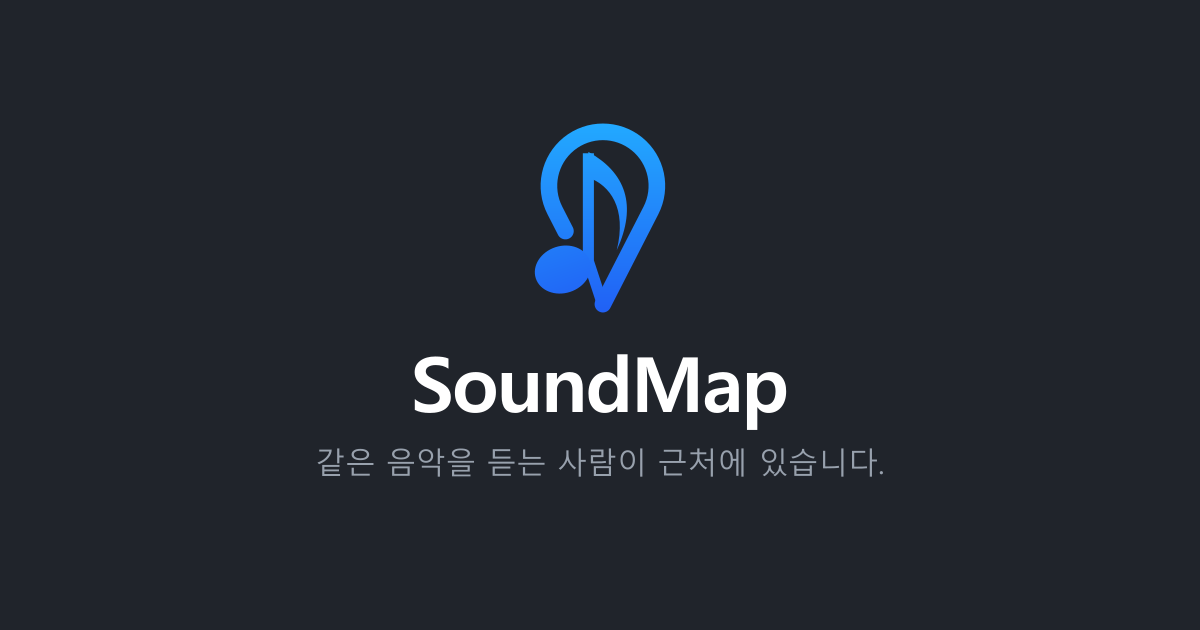
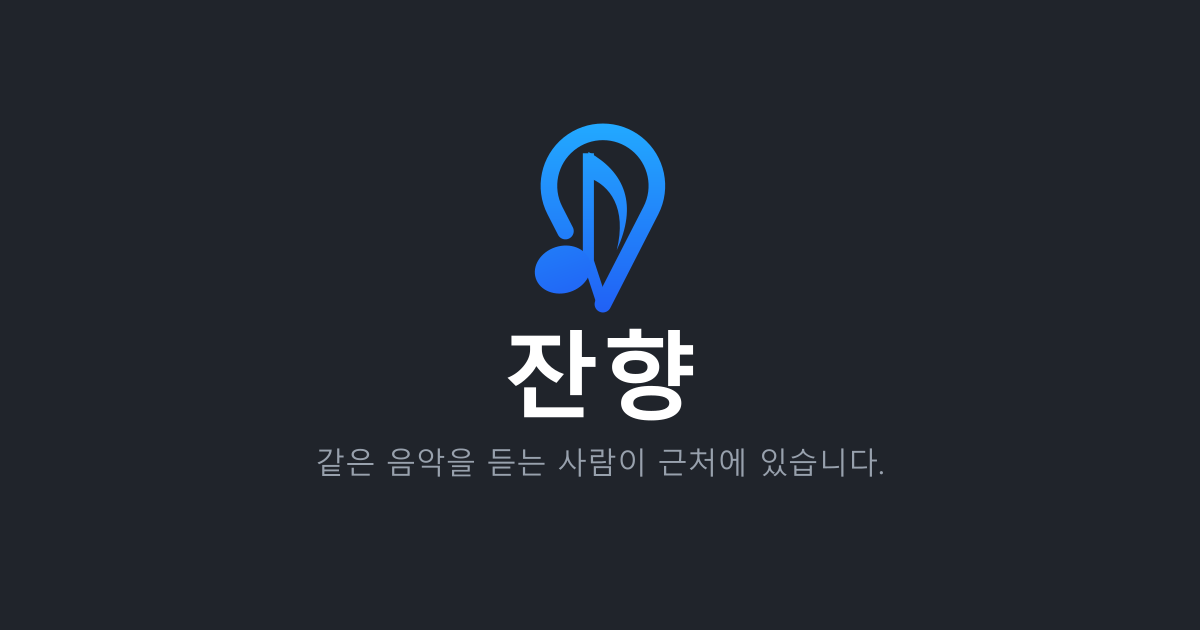
서비스 이름을 잔향으로 변경
동명의 SoundMap 앱이 이미 있어 사용자에게 보이는 이름만 바꿨다.
자바 패키지(com.soundmap), 토큰 키, 도메인, systemd 유닛 이름은 그대로 둔다.
표시와 무관한 데다, 도메인을 바꾸면 인증서를 다시 받아야 하고
기존 웹푸시 구독도 전부 무효가 되기 때문이다.

한글 워드마크는 글자폭이 고르므로 라틴 기준으로 잡아둔 음수 자간을 0 으로 되돌렸다.

Changed region(s): [[0.3392, 0.5127, 0.6783, 0.6937]]

diff --git a/frontend/index.html b/frontend/index.html
@@ -14,7 +14,7 @@
     <link rel="manifest" href="/manifest.webmanifest" />
     <meta name="apple-mobile-web-app-capable" content="yes" />
     <meta name="apple-mobile-web-app-status-bar-style" content="default" />
-    <meta name="apple-mobile-web-app-title" content="SoundMap" />
+    <meta name="apple-mobile-web-app-title" content="잔향" />
 
     <!--
       카카오톡·슬랙 등의 링크 미리보기.
@@ -22,8 +22,8 @@
     -->
     <meta name="description" content="같은 음악을 듣는 사람이 근처에 있습니다." />
     <meta property="og:type" content="website" />
-    <meta property="og:site_name" content="SoundMap" />
-    <meta property="og:title" content="SoundMap" />
+    <meta property="og:site_name" content="잔향" />
+    <meta property="og:title" content="잔향" />
     <meta property="og:description" content="같은 음악을 듣는 사람이 근처에 있습니다." />
     <meta property="og:url" content="https://soundmap.duckdns.org/" />
     <meta property="og:image" content="https://soundmap.duckdns.org/og-image.png" />
@@ -36,7 +36,7 @@
       rel="stylesheet"
       href="https://cdn.jsdelivr.net/gh/orioncactus/pretendard@v1.3.9/dist/web/variable/pretendardvariable-dynamic-subset.min.css"
     />
-    <title>SoundMap</title>
+    <title>잔향</title>
   </head>
   <body>
     <div id="root"></div>

diff --git a/frontend/src/index.css b/frontend/src/index.css
@@ -1,5 +1,5 @@
 /*
- * SoundMap 디자인 시스템.
+ * 잔향 디자인 시스템.
  *
  * 밝은 배경 · 파란 강조색 · 큰 라운드 · 굵은 제목. 화면 대부분이 목록과 시트라서
  * 테두리로 칸을 나누는 대신 흰 카드를 회색 바닥 위에 얹어 구분한다.
@@ -349,7 +349,8 @@ textarea.search-input {
   margin: 0;
   font-size: 28px;
   font-weight: 800;
-  letter-spacing: -1px;
+  /* 한글 워드마크는 글자폭이 고르다. 라틴 기준 음수 자간을 주면 붙어 보인다. */
+  letter-spacing: 0;
 }
 
 .subtitle {
@@ -385,7 +386,7 @@ textarea.search-input {
 .map-header__logo {
   font-size: 18px;
   font-weight: 800;
-  letter-spacing: -0.7px;
+  letter-spacing: 0;
   color: var(--text);
   white-space: nowrap;
 }

diff --git a/frontend/src/pages/LoginPage.jsx b/frontend/src/pages/LoginPage.jsx
@@ -36,7 +36,7 @@ export default function LoginPage() {
     <div className="screen-center">
       <form className="card" onSubmit={handleSubmit}>
         <Logo size={46} />
-        <h1 className="logo">SoundMap</h1>
+        <h1 className="logo">잔향</h1>
         <p className="subtitle">같은 음악을 듣는 사람이 근처에 있습니다.</p>
 
         <label className="field">

diff --git a/frontend/public/sw.js b/frontend/public/sw.js
@@ -10,7 +10,7 @@ self.addEventListener("push", (event) => {
       ? data.url
       : "/notifications";
   event.waitUntil(
-    self.registration.showNotification(data.title || "SoundMap", {
+    self.registration.showNotification(data.title || "잔향", {
       body: data.body || "새 알림이 도착했습니다.",
       icon: "/icon-192.png",
       tag: data.tag || "soundmap",

diff --git a/frontend/src/pages/MapPage.jsx b/frontend/src/pages/MapPage.jsx
@@ -171,7 +171,7 @@ export default function MapPage() {
       <header className="map-header">
         <span className="map-header__brand">
           <Logo size={24} />
-          <span className="map-header__logo">SoundMap</span>
+          <span className="map-header__logo">잔향</span>
         </span>
         <span className="map-header__count">
           {hasFilter

diff --git a/backend/src/main/java/com/soundmap/notification/PushService.java b/backend/src/main/java/com/soundmap/notification/PushService.java
@@ -61,7 +61,7 @@ public class PushService {
         try {
             Security.addProvider(new BouncyCastleProvider());
             var sender=new nl.martijndwars.webpush.PushService(publicKey,privateKey,subject);
-            byte[] payload=json.writeValueAsBytes(Map.of("title","SoundMap","body",event.title(),"url","/chats/"+event.room(),"tag","room-"+event.room()));
+            byte[] payload=json.writeValueAsBytes(Map.of("title","잔향","body",event.title(),"url","/chats/"+event.room(),"tag","room-"+event.room()));
             var config=RequestConfig.custom().setConnectTimeout(5000).setSocketTimeout(5000).setConnectionRequestTimeout(5000).build();
             try(var client=HttpClients.custom().disableRedirectHandling().setDefaultRequestConfig(config).build()) {
                 for(var sub:subscriptions.findByUserId(event.user())) {

diff --git a/README.md b/README.md
@@ -1,4 +1,4 @@
-# SoundMap
+# 잔향 (Janhyang)
 
 현재 듣고 있는 음악과 음악 취향을 지도에 공유하고, 같은 음악을 좋아하는
 주변 사람을 발견해 대화할 수 있는 위치 기반 음악 소셜 플랫폼.
